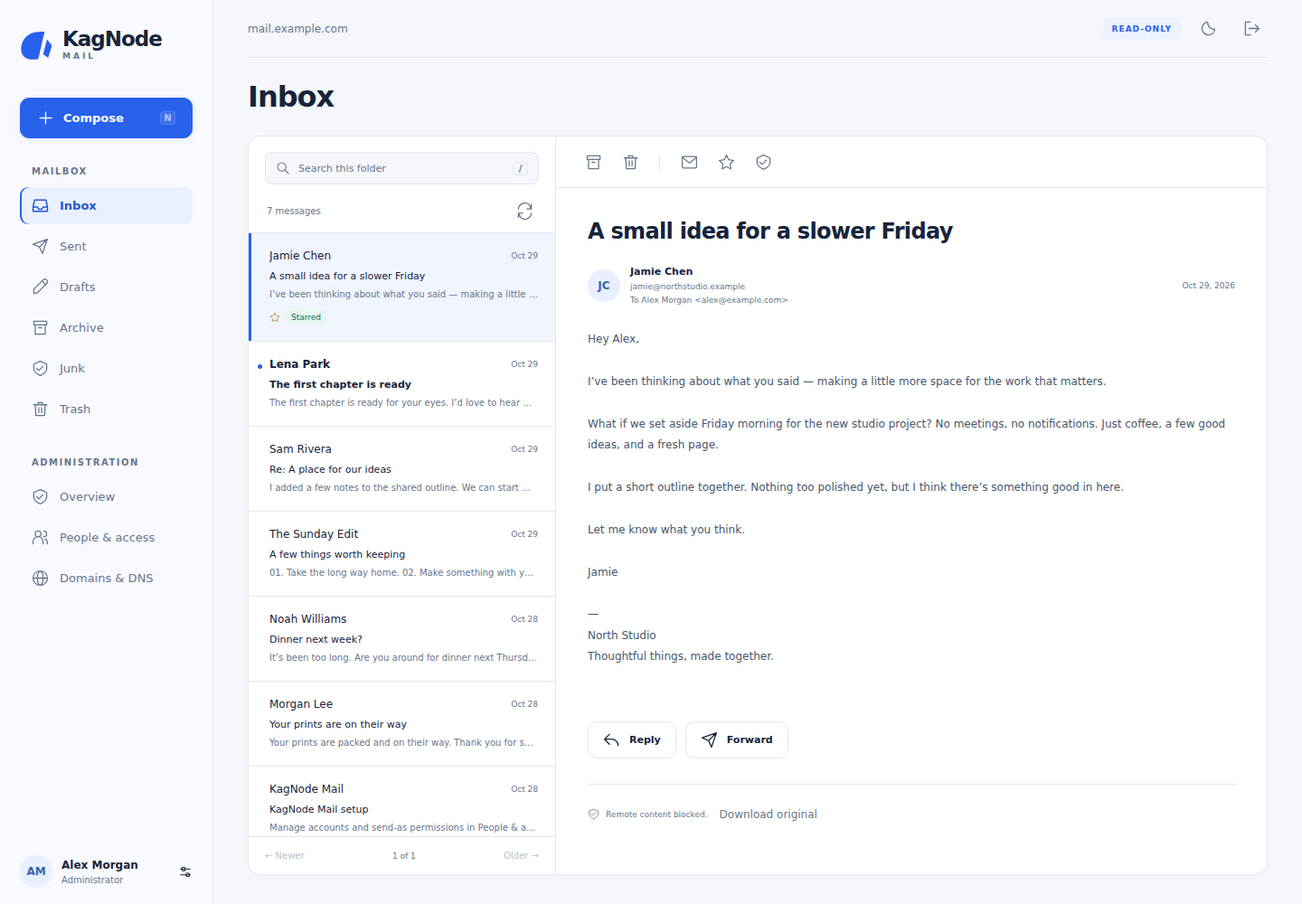
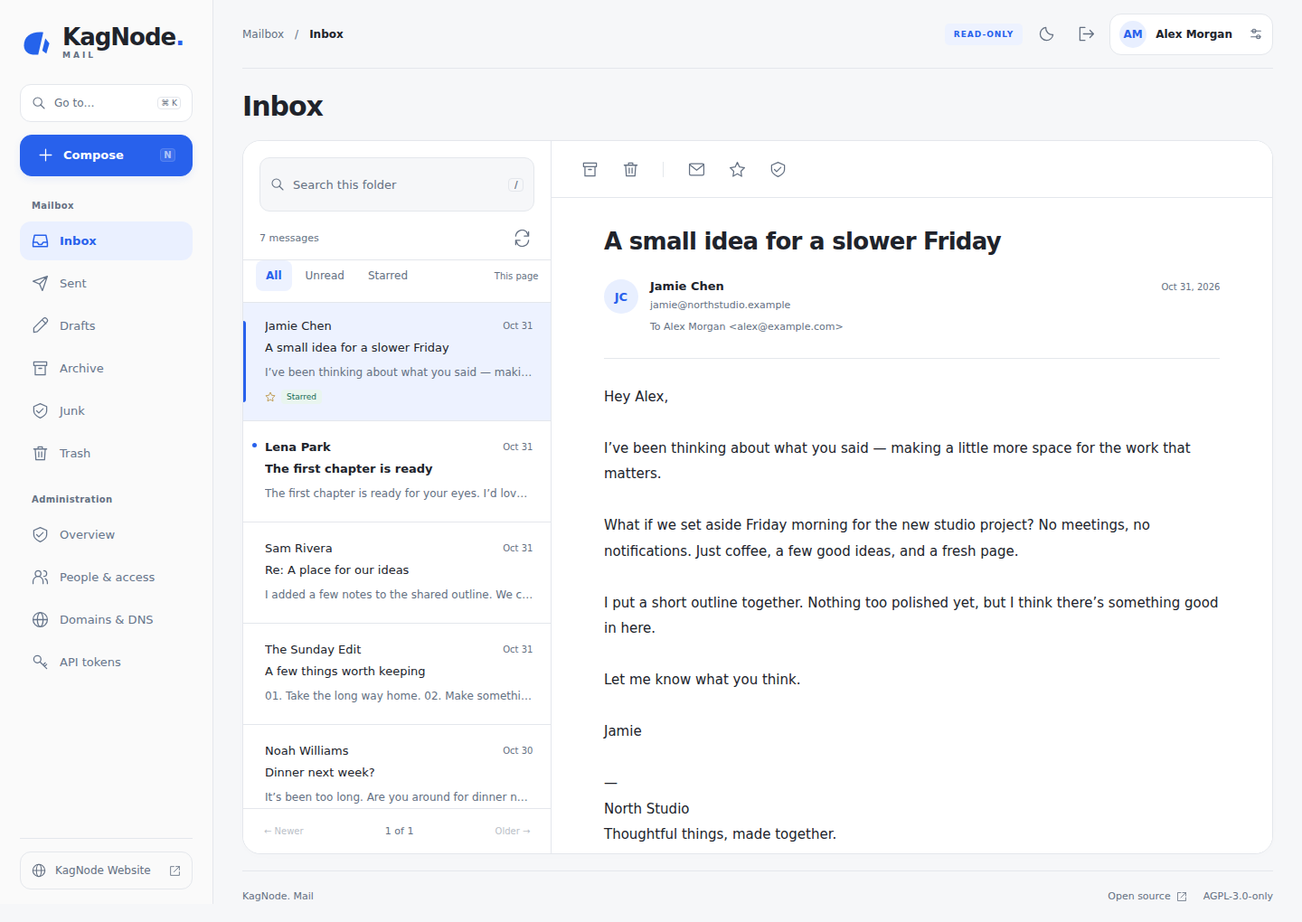
Fixed for 0.5.0

diff --git a/kagnode/templates/index.html b/kagnode/templates/index.html
@@ -4,8 +4,9 @@
 <meta charset="utf-8"><meta name="viewport" content="width=device-width,initial-scale=1"><meta name="theme-color" content="#f5f7fc">
 <title>KagNode Mail — Open source mail server</title>
 <meta name="description" content="KagNode Mail — open source mail server.">
-<link rel="icon" href="/static/favicon.ico?v=transparent-1" sizes="16x16 32x32 48x48"><link rel="icon" href="/static/favicon.png?v=transparent-1" type="image/png" sizes="32x32"><link rel="icon" href="/static/favicon.svg?v=transparent-1" type="image/svg+xml" sizes="any"><link rel="apple-touch-icon" href="/static/apple-touch-icon.png?v=transparent-1" sizes="180x180"><link rel="stylesheet" href="/static/app.css?v=mail-0.4.5">
-<script src="/static/app.js?v=mail-0.4.5" defer></script>
+<link rel="icon" href="/static/favicon.ico?v=transparent-1" sizes="16x16 32x32 48x48"><link rel="icon" href="/static/favicon.png?v=transparent-1" type="image/png" sizes="32x32"><link rel="icon" href="/static/favicon.svg?v=transparent-1" type="image/svg+xml" sizes="any"><link rel="apple-touch-icon" href="/static/apple-touch-icon.png?v=transparent-1" sizes="180x180"><link rel="stylesheet" href="/static/app.css?v=mail-0.5.0">
+<link rel="stylesheet" href="/static/workspace.css?v=mail-0.5.0">
+<script src="/static/app.js?v=mail-0.5.0" defer></script>
 </head>
 <body>
 <svg class="icon-defs" aria-hidden="true" xmlns="http://www.w3.org/2000/svg"><defs>
@@ -51,14 +52,14 @@
    <div id="admin-nav-wrap" hidden><span class="nav-label admin-label" id="admin-nav-label">Administration</span><nav id="admin-nav" aria-labelledby="admin-nav-label"></nav></div>
   </div>
   <div class="sidebar-bottom">
-   <button class="profile-button" id="profile-button" data-page="account" aria-label="Your account and settings"><span class="avatar" id="sidebar-avatar"></span><span class="profile-details"><strong id="sidebar-name"></strong><small id="sidebar-role"></small></span><svg class="icon" aria-hidden="true"><use href="#i-settings"/></svg></button>
+
    <a class="website-link" href="https://nebulacoder.com"><svg class="icon" aria-hidden="true"><use href="#i-globe"/></svg><span>KagNode Website</span><svg class="icon" aria-hidden="true"><use href="#i-external"/></svg></a>
   </div>
  </aside>
  <button id="sidebar-backdrop" class="mobile-backdrop" aria-label="Close navigation" hidden></button>
- <main class="main" id="main" tabindex="-1"><header class="topbar"><button class="icon-button mobile-menu" id="mobile-menu" aria-label="Toggle navigation"><svg class="icon"><use href="#i-menu"/></svg></button><a href="#inbox" class="mobile-brand" aria-label="KagNode Mail"><img src="/static/logo.svg" width="26" height="26" alt=""></a><span class="mail-location"><span id="location-group">Mailbox</span><span aria-hidden="true">/</span><strong id="location-page">Inbox</strong></span><span id="server-host" class="server-host"></span><div class="topbar-right"><button id="navigation-search-mobile" class="icon-button" aria-label="Find a folder or setting" aria-haspopup="dialog" aria-controls="navigation-dialog"><svg class="icon" aria-hidden="true"><use href="#i-search"/></svg></button><span id="preview-badge" class="pill" hidden>READ-ONLY</span><button id="theme-toggle" class="icon-button" aria-label="Toggle dark theme"><svg class="icon"><use href="#i-moon"/></svg></button><button id="logout-button" class="icon-button" aria-label="Sign out" title="Sign out"><svg class="icon"><use href="#i-logout"/></svg></button></div></header>
+ <main class="main" id="main" tabindex="-1"><header class="topbar"><button class="icon-button mobile-menu" id="mobile-menu" aria-label="Toggle navigation"><svg class="icon"><use href="#i-menu"/></svg></button><a href="#inbox" class="mobile-brand" aria-label="KagNode Mail"><img src="/static/logo.svg" width="26" height="26" alt=""></a><span class="mail-location"><span id="location-group">Mailbox</span><span aria-hidden="true">/</span><strong id="location-page">Inbox</strong></span><span id="server-host" class="server-host"></span><div class="topbar-right"><button id="navigation-search-mobile" class="icon-button" aria-label="Find a folder or setting" aria-haspopup="dialog" aria-controls="navigation-dialog"><svg class="icon" aria-hidden="true"><use href="#i-search"/></svg></button><span id="preview-badge" class="pill" hidden>READ-ONLY</span><button id="theme-toggle" class="icon-button" aria-label="Toggle dark theme"><svg class="icon"><use href="#i-moon"/></svg></button><button id="logout-button" class="icon-button" aria-label="Sign out" title="Sign out"><svg class="icon"><use href="#i-logout"/></svg></button><button class="profile-button" id="profile-button" data-page="account" aria-label="Your account and settings"><span class="avatar" id="sidebar-avatar"></span><span class="profile-details"><strong id="sidebar-name"></strong><small id="sidebar-role"></small></span><svg class="icon" aria-hidden="true"><use href="#i-settings"/></svg></button></div></header>
  <section class="page-heading"><h1 id="page-title">Inbox</h1></section>
- <section id="mail-view" class="mail-surface"><div class="mail-list-panel"><div class="list-toolbar"><label class="search-wrap"><svg class="icon"><use href="#i-search"/></svg><input id="mail-search" type="search" placeholder="Search this folder" aria-label="Search this folder"><kbd>/</kbd></label></div><div class="list-subhead"><strong id="list-count">All messages</strong><div class="list-actions"><button id="compose-mobile" type="button" class="button mobile-compose-action" aria-label="Compose a message"><svg class="icon" aria-hidden="true"><use href="#i-plus"/></svg>Compose</button><button id="refresh-mail" class="icon-button small" aria-label="Refresh messages"><svg class="icon"><use href="#i-refresh"/></svg></button></div></div><div id="message-list" class="message-list" aria-live="polite"></div><div class="pagination"><button id="prev-page" class="text-button">← Newer</button><span id="page-count">Page 1</span><button id="next-page" class="text-button">Older →</button></div></div><div id="message-reader" class="message-reader"></div></section>
+ <section id="mail-view" class="mail-surface"><div class="mail-list-panel"><div class="list-toolbar"><label class="search-wrap"><svg class="icon"><use href="#i-search"/></svg><input id="mail-search" type="search" placeholder="Search this folder" aria-label="Search this folder"><kbd>/</kbd></label></div><div class="list-subhead"><strong id="list-count">All messages</strong><div class="list-actions"><button id="compose-mobile" type="button" class="button mobile-compose-action" aria-label="Compose a message"><svg class="icon" aria-hidden="true"><use href="#i-plus"/></svg>Compose</button><button id="refresh-mail" class="icon-button small" aria-label="Refresh messages"><svg class="icon"><use href="#i-refresh"/></svg></button></div></div><div class="mail-filters" role="group" aria-label="Filter messages on this page"><button type="button" data-mail-filter="all" aria-pressed="true">All</button><button type="button" data-mail-filter="unread" aria-pressed="false">Unread</button><button type="button" data-mail-filter="starred" aria-pressed="false">Starred</button><span title="Filters apply to this page of messages">This page</span></div><div id="message-list" class="message-list" aria-live="polite"></div><div class="pagination"><button id="prev-page" class="text-button">← Newer</button><span id="page-count">Page 1</span><button id="next-page" class="text-button">Older →</button></div></div><div id="message-reader" class="message-reader"></div></section>
  <section id="admin-view" class="admin-view" hidden></section><section id="account-view" class="admin-view" hidden></section>
  <footer class="mail-footer"><span>KagNode. Mail</span><nav aria-label="Mail project links"><a href="https://github.com/every-lemon/kagnode-mail" target="_blank" rel="noreferrer">Open source <svg class="icon" aria-hidden="true"><use href="#i-external"/></svg></a><a href="https://github.com/every-lemon/kagnode-mail/blob/main/LICENSE" target="_blank" rel="noreferrer">AGPL-3.0-only</a></nav></footer>
  </main>

diff --git a/kagnode/static/workspace.css b/kagnode/static/workspace.css
@@ -1,0 +1,22 @@
+/* KagNode Mail 0.5: reading layout, message navigation and composition. */
+:root{--bg:#f6f7f9;--side:#fafafa;--ink:#20232b;--muted:#647082;--line:#e4e7ec;--radius:18px}
+[data-theme=dark]{--bg:#101113;--side:#121315;--paper:#181a1e;--ink:#f1f3f7;--muted:#a5acb8;--line:#2c2f35;--soft:#1d2b45}
+.main{padding:0 32px}.topbar{height:76px;gap:12px}.mail-location{font-size:12px;gap:12px}.topbar .server-host{display:none}.topbar-right{margin-left:auto;gap:8px}
+.topbar .profile-button{width:auto;max-width:240px;min-height:44px;padding:7px 10px;border-radius:13px;gap:10px;background:var(--paper)}
+.topbar .profile-button .avatar{width:30px;height:30px;font-size:12px;flex-shrink:0}.topbar .profile-details{text-align:left}.topbar .profile-details strong{font-size:12px}.topbar .profile-details small{display:none}.topbar .profile-button>.icon{width:16px;margin-left:8px;color:var(--muted)}
+.sidebar .brand-wordmark strong{font-size:26px}.nav-item{font-size:13px;min-height:43px}.nav-label{font-size:10px}.nav-item.active{box-shadow:none}.compose-main{min-height:46px;font-size:13px}.navigation-search{font-size:12px}.website-link{font-size:12px}
+.page-heading{padding:24px 0 20px}.page-heading h1{font-size:30px;letter-spacing:-1px}.mail-surface{height:calc(100dvh - 210px);min-height:480px;border-radius:20px;box-shadow:0 2px 12px #00000003;margin-bottom:18px}
+.mail-list-panel{width:clamp(300px,30%,390px);background:var(--paper)}.list-toolbar{padding:18px 18px 10px}.search-wrap{border-radius:11px}.search-wrap input{font-size:13px;min-height:40px}.list-subhead{padding:5px 18px 10px;font-size:11px}
+.mail-filters{display:flex;align-items:center;gap:4px;padding:0 14px 12px;border-bottom:1px solid var(--line)}.mail-filters button{border:0;border-radius:8px;background:transparent;color:var(--muted);font-size:12px;min-height:34px;padding:7px 11px}.mail-filters button[aria-pressed=true]{background:var(--soft);color:var(--accent);font-weight:600}.mail-filters>span{margin-left:auto;font-size:10px;color:var(--muted)}
+.message-row{padding:18px 20px 18px 24px;min-height:112px}.message-row.selected{background:var(--soft)}.message-row.selected:before{inset:20px auto 20px 0;width:3px;border-radius:0 4px 4px 0}.row-top{margin-bottom:7px}.sender-name{font-size:13px}.row-date{font-size:10px}.row-subject{font-size:13px;line-height:1.6;white-space:normal;display:-webkit-box;-webkit-line-clamp:2;-webkit-box-orient:vertical;overflow:hidden}.row-preview{font-size:12px;line-height:1.7;margin-top:5px}.row-bottom{margin-top:9px}.unread-dot{top:24px;left:10px;width:5px;height:5px}.pagination{padding:13px 17px;font-size:11px}
+.message-reader{min-width:0;background:var(--paper)}.reader-toolbar{min-height:63px;padding:10px 24px;gap:9px;background:var(--paper);position:sticky;top:0;z-index:1;border-bottom:1px solid var(--line)}.reader-toolbar .icon-button{width:36px;height:36px;border-radius:9px}.reader-toolbar .icon-button:hover{background:var(--soft)}
+.reader-content{padding:30px clamp(22px,4vw,58px);max-width:1000px;margin:auto}.reader-content h2{font-size:26px;line-height:1.4;font-weight:650;letter-spacing:-.7px;margin-bottom:24px;overflow-wrap:anywhere}.sender-block{align-items:flex-start;gap:13px;flex-wrap:wrap;padding-bottom:24px;border-bottom:1px solid var(--line);margin-bottom:28px}.sender-block .avatar{width:38px;height:38px;font-size:13px}.sender-details strong{font-size:13px}.sender-details small{font-size:11px;line-height:1.7;overflow-wrap:anywhere}.sender-date{font-size:10px;margin-left:auto;line-height:1.8}.message-body{font-family:inherit;font-size:15px;line-height:1.9;white-space:pre-wrap;overflow-wrap:anywhere;max-width:72ch;color:var(--ink)}
+.reply-bar{margin-top:30px;gap:10px}.reply-bar .button{font-size:12px;padding:12px 18px;border-radius:11px}.reader-bottom{font-size:11px;line-height:1.6;flex-wrap:wrap;align-items:center}.reader-bottom a{margin-left:auto}.attachment{font-size:12px;border-radius:11px;max-width:100%}.message-reader>.empty-state{min-height:100%;max-width:400px;margin:auto;padding:32px;display:flex;flex-direction:column;justify-content:center;text-align:center}
+.mail-skeleton{padding:16px 20px}.mail-skeleton>div{padding:22px 0;border-bottom:1px solid var(--line)}.mail-skeleton span{display:block;height:10px;width:65%;border-radius:6px;background:var(--line);margin-bottom:12px;animation:mail-breathe 1.4s ease-in-out infinite alternate}.mail-skeleton span:nth-child(2){width:90%}.mail-skeleton span:nth-child(3){width:75%;opacity:.6}.message-reader>.mail-skeleton{max-width:680px;padding:32px}
+.compose-dialog{width:min(760px,calc(100vw - 36px));border-radius:22px}.compose-dialog .dialog-header{padding:24px 28px}.compose-dialog h2{font-size:22px;font-weight:650}.compose-fields{padding-inline:28px}.inline-field{font-size:12px;gap:16px}.inline-field input,.inline-field select{font-size:14px;min-height:45px}.compose-fields textarea{font-size:15px;line-height:1.8;min-height:240px;padding-top:20px}.compose-footer{padding:20px 28px}.compose-footer .button{font-size:13px;min-height:44px}.file-label{font-size:12px}.panel-note,.panel-subtitle{font-size:13px;line-height:1.7}
+.mail-footer{font-size:11px;padding-bottom:12px}.admin-view{max-width:1200px}.admin-view .panel{border-radius:18px}.admin-view td{line-height:1.6}
+@keyframes mail-breathe{from{opacity:.4}to{opacity:1}}
+@media(max-width:1200px){.main{padding-inline:24px}.reader-content{padding-inline:24px}.mail-list-panel{width:300px}.sender-date{flex-basis:100%;margin-left:51px}.topbar .profile-details{max-width:110px}.topbar .profile-details strong{overflow:hidden;text-overflow:ellipsis}}
+@media(max-width:900px){.main{padding-inline:20px}.topbar{height:68px;gap:8px}.mail-location{font-size:12px}.topbar-right{gap:2px}.topbar .profile-button{min-height:38px;padding:4px;margin-left:6px;max-width:40px;border-radius:50%}.topbar .profile-details,.topbar .profile-button>.icon{display:none}.page-heading{padding-block:20px}.mail-surface{height:calc(100dvh - 205px)}.mail-list-panel{width:300px}.sidebar-bottom{padding-top:16px}}
+@media(max-width:700px){.main{padding-inline:14px}.page-heading h1{font-size:28px}.mail-surface{height:calc(100dvh - 190px);min-height:420px;border-radius:16px}.mail-list-panel{width:100%;border-right:0}.message-reader{display:none}.mail-surface.reading .mail-list-panel{display:none}.mail-surface.reading .message-reader{display:block;width:100%}.reader-back{display:inline-flex}.reader-content{padding:22px 20px}.reader-content h2{font-size:23px}.message-body{font-size:14px}.reader-toolbar{padding-inline:12px;gap:7px}.message-row{min-height:110px}.row-subject{font-size:14px}.sender-name{font-size:13px}.reader-bottom a{margin-left:0;flex-basis:100%}.compose-dialog{width:calc(100vw - 20px);border-radius:18px;max-height:calc(100dvh - 20px)}.compose-dialog .dialog-header,.compose-footer{padding:18px}.compose-fields{padding-inline:18px}.compose-fields textarea{min-height:200px}.inline-field input,.inline-field select{font-size:16px}.mail-location>span{display:none}.mail-footer{font-size:10px}.topbar .icon-button{width:34px;height:38px}}
+@media(prefers-reduced-motion:reduce){.mail-skeleton span{animation:none}}

diff --git a/kagnode/static/app.js b/kagnode/static/app.js
@@ -13,6 +13,7 @@ const state = {
   tokens: null,
   demo: false,
   login_allowed: false,
+  listFilter: 'all',
   generation: 0
 };
 const folders = [
@@ -304,12 +305,13 @@ async function route() {
   document.title = (folders.find(f => f[0] === page)?.[1] || adminPages.find(f => f[0] === page)?.[1] || 'Account') + ' · KagNode Mail';
   if (folders.some(f => f[0] === page)) {
     state.folder = page;
+    state.listFilter = 'all';
     state.page = 1;
     state.current = null;
     $('#mail-search').value = '';
     $('#mail-view').classList.remove('reading');
     heading(folders.find(f => f[0] === page)[1]);
-    $('#message-reader').replaceChildren(blank('Select a message'));
+    $('#message-reader').replaceChildren(blank('Your messages, in focus', 'Select a message to read it here. Reply, save attachments, or keep your inbox organized.', 'inbox'));
     await loadMessages();
   } else if (page === 'account') {
     renderAccount();
@@ -342,7 +344,7 @@ async function route() {
 }
 async function loadMessages() {
   const gen = ++state.generation;
-  $('#message-list').replaceChildren(blank('Loading…'));
+  $('#message-list').replaceChildren(mailSkeleton());
   try {
     const r = await api('/messages?' + new URLSearchParams({
       folder: state.folder,
@@ -371,9 +373,20 @@ async function loadMessages() {
   }
 }
 
+function mailSkeleton() {
+  const box=el('div',{class:'mail-skeleton',role:'status','aria-label':'Loading messages'});
+  for(let i=0;i<5;i++)box.append(el('div',{},el('span'),el('span'),el('span')));
+  return box;
+}
+for(const control of document.querySelectorAll('[data-mail-filter]'))control.addEventListener('click',()=>{
+  state.listFilter=control.dataset.mailFilter;renderList();
+});
 function renderList() {
-  const nodes = state.messages.map(m => {
+  for(const control of document.querySelectorAll('[data-mail-filter]'))control.setAttribute('aria-pressed',String(control.dataset.mailFilter===state.listFilter));
+  const visible=state.messages.filter(m=>state.listFilter==='all'||!!m[state.listFilter]);
+  const nodes = visible.map(m => {
     const n = el('button', {
+      'aria-pressed': String(state.current?.uid === m.uid),
       class: 'message-row' + (m.unread ? ' unread' : '') + (state.current?.uid === m.uid ? ' selected' : ''),
       onclick: () => openMessage(m.uid)
     }, m.unread ? el('span', {
@@ -396,7 +409,7 @@ function renderList() {
     }, 'Starred')));
     return n;
   });
-  $('#message-list').replaceChildren(...(nodes.length ? nodes : [blank('No messages')]));
+  $('#message-list').replaceChildren(...(nodes.length ? nodes : [blank(state.messages.length?'No '+state.listFilter+' messages on this page':'No messages',state.messages.length?'Choose All or move to another page.':'New messages will appear here.','inbox')]));
 }
 async function openMessage(uid) {
   const folder = state.folder;
@@ -405,7 +418,7 @@ async function openMessage(uid) {
   };
   renderList();
   $('#mail-view').classList.add('reading');
-  $('#message-reader').replaceChildren(blank('Loading…'));
+  $('#message-reader').replaceChildren(mailSkeleton());
   try {
     const m = await api(`/messages/${uid}?folder=${encodeURIComponent(folder)}`);
     if (state.folder !== folder || state.current?.uid !== uid) return;
@@ -415,7 +428,10 @@ async function openMessage(uid) {
     renderList();
     renderReader(m);
   } catch (e) {
-    $('#message-reader').replaceChildren(blank('Could not open this message.', e.message));
+    if (state.folder !== folder || state.current?.uid !== uid) return;
+    const notice=blank('Could not open this message.', e.message);
+    notice.append(button('Try again',()=>openMessage(uid),'button','refresh'));
+    $('#message-reader').replaceChildren(notice);
   }
 }
 
@@ -495,7 +511,7 @@ async function mailAction(action) {
       if (m && action.includes('star')) renderReader(state.current);
     } else {
       state.current = null;
-      $('#message-reader').replaceChildren(blank('Select a message'));
+      $('#message-reader').replaceChildren(blank('Your messages, in focus', 'Select a message to read it here. Reply, save attachments, or keep your inbox organized.', 'inbox'));
       $('#mail-view').classList.remove('reading');
     }
   } catch (e) {

diff --git a/tests/test_mail.py b/tests/test_mail.py
@@ -520,3 +520,27 @@ def test_saved_draft_reports_success_if_old_copy_removal_disconnects(monkeypatch
     assert result["uid"] == "13"
     assert result["uidvalidity"] == "555"
     assert result["warning"].startswith("Draft saved,")
+
+
+def test_html_alternative_preserves_text_bcc_and_attachments():
+    from werkzeug.datastructures import FileStorage
+    import io
+    message, sender, targets = build_message(
+        {"to": "friend@example.org", "bcc": "hidden@example.org", "subject": "Update", "body": "Open your account", "html": '<p>Open <a href="https://example.org/account">your account</a></p>'},
+        USER, [USER["email"]], [FileStorage(stream=io.BytesIO(b"notes"), filename="notes.txt")],
+    )
+    assert message.get_content_type() == "multipart/mixed"
+    alternatives = message.get_payload(0)
+    assert alternatives.get_content_type() == "multipart/alternative"
+    assert alternatives.get_payload(0).get_content_type() == "text/plain"
+    assert alternatives.get_payload(1).get_content_type() == "text/html"
+    assert "Open your account" in message.get_body(preferencelist=("plain",)).get_content()
+    assert '<a href="https://example.org/account">' in message.get_body(preferencelist=("html",)).get_content()
+    assert "hidden@example.org" in targets
+    assert list(message.iter_attachments())[0].get_filename() == "notes.txt"
+
+
+@pytest.mark.parametrize("extra", [{"body": ""}, {"html": {}}, {"html": "é" * 524289}])
+def test_html_requires_text_and_bounded_string(extra):
+    with pytest.raises(ValueError):
+        build_message({"to": "friend@example.org", "body": "Text", "html": "<p>Text</p>", **extra}, USER, [USER["email"]])

diff --git a/tests/browser_check.py b/tests/browser_check.py
@@ -148,6 +148,8 @@ with sync_playwright() as p:
     page.locator(".dns-record").first.wait_for()
     page.screenshot(path=str(OUT / "dns.png"), full_page=True)
     page.locator('#form-dialog button[aria-label="Close dialog"]').click()
+    if page.locator("#sidebar-backdrop").is_visible():
+        page.locator("#sidebar-close").click()
     page.locator("#profile-button").click()
     page.get_by_role("heading", name="Mail clients", exact=True).wait_for()
     page.screenshot(path=str(OUT / "account.png"), full_page=True)
@@ -263,7 +265,7 @@ with sync_playwright() as p:
     page.locator('#toast').wait_for(state='hidden')
     page.locator('#theme-toggle').click()
     page.screenshot(path=str(OUT / "tokens-dark.png"), full_page=True)
-    assert page.locator('.token-card').first.evaluate("e => getComputedStyle(e).backgroundColor") == "rgb(0, 0, 0)"
+    assert page.locator('.token-card').first.evaluate("e => getComputedStyle(e).backgroundColor") == "rgb(24, 26, 30)"
     page.locator('#theme-toggle').click()
     page.set_viewport_size({"width": 390, "height": 844})
     page.screenshot(path=str(OUT / "tokens-mobile.png"), full_page=True)
@@ -337,6 +339,7 @@ with sync_playwright() as p:
         assert page.locator('.sidebar .website-link').evaluate(
             "el => {const r=el.getBoundingClientRect(); return r.top >= 0 && r.bottom <= innerHeight;}"
         ), f"Sidebar bottom outside viewport at {width}px"
+        page.locator("#sidebar-close").click()
         page.locator("#profile-button").click()
         expect(page.locator("#location-page")).to_have_text("Account")
         expect(page.locator("#location-page")).to_be_visible()

diff --git a/kagnode/mail.py b/kagnode/mail.py
@@ -105,7 +105,7 @@ def recipients(value):
 def build_message(data, user, allowed, attachments=(), draft=False):
     if any(
         not isinstance(data.get(k, ""), str)
-        for k in ("from", "to", "cc", "bcc", "subject", "body")
+        for k in ("from", "to", "cc", "bcc", "subject", "body", "html")
     ):
         raise ValueError("Message fields must be text.")
     try:
@@ -130,6 +130,11 @@ def build_message(data, user, allowed, attachments=(), draft=False):
     body = data.get("body", "")
     if len(body.encode()) > 1024 * 1024:
         raise ValueError("Message text is too large.")
+    html = data.get("html", "")
+    if len(html.encode()) > 1024 * 1024:
+        raise ValueError("Message HTML is too large.")
+    if html and not body.strip():
+        raise ValueError("Include a plain-text body with HTML messages.")
     msg = EmailMessage(policy=policy.SMTP)
     msg["From"] = sender
     msg["To"] = ", ".join(to) if to else "undisclosed-recipients:;"
@@ -141,6 +146,8 @@ def build_message(data, user, allowed, attachments=(), draft=False):
     msg["Date"] = formatdate(localtime=False)
     msg["Message-ID"] = make_msgid(domain=sender.split("@")[1])
     msg.set_content(body)
+    if html:
+        msg.add_alternative(html, subtype="html")
     msg._kagnode_bcc = bcc
     total = 0
     for index, item in enumerate(attachments):

diff --git a/tests/test_api.py b/tests/test_api.py
@@ -477,3 +477,19 @@ def test_get_accepts_json_content_type_without_body(client, token, mail):
         "/api/v1/messages/12?uidvalidity=42",
     ):
         assert client.get(path, headers=headers).status_code == 200
+
+
+def test_token_html_submission_and_draft_keep_plain_alternative(client, token, mail):
+    payload = {"to": "friend@example.org", "subject": "Account", "body": "Account update", "html": "<h1>Account update</h1>"}
+    result = client.post("/api/v1/send", headers=bearer(token), json=payload)
+    assert result.status_code == 202
+    message = mail.send.call_args.args[2]
+    assert message.get_body(preferencelist=("html",)).get_content().strip() == payload["html"]
+    assert message.get_body(preferencelist=("plain",)).get_content().strip() == payload["body"]
+    result = client.post("/api/v1/drafts", headers=bearer(token), json=payload)
+    assert result.status_code == 201
+    message = mail.draft.call_args.args[2]
+    assert message.get_body(preferencelist=("html",)).get_content().strip() == payload["html"]
+    for extra in [{"body": ""}, {"html": []}, {"html": "a" * 1048577}]:
+        assert client.post("/api/v1/send", headers=bearer(token), json={**payload, **extra}).status_code == 400
+    assert mail.send.call_count == 1

diff --git a/README.md b/README.md
@@ -10,7 +10,7 @@ Open source mail server for Ubuntu Server 24.04, with webmail and administration
 
 KagNode Mail installs Postfix, Dovecot, OpenDKIM, nginx, and a small Python application. SQLite keeps accounts and permissions; Maildir stores messages. No Docker, Node.js runtime, Redis, external fonts, analytics, or database server is required on your mail host.
 
-This is the **0.4.5 release**. This release uses project-scoped paths; existing installations require the separately reviewed migration in [PATHS.md](PATHS.md). Review [validation and limitations](docs/validation.md) before putting it on the public internet. Public mail delivery also depends on your IP reputation, provider rules, DNS, and open port 25.
+This is the **0.5.0 release**. This release uses project-scoped paths; existing installations require the separately reviewed migration in [PATHS.md](PATHS.md). Review [validation and limitations](docs/validation.md) before putting it on the public internet. Public mail delivery also depends on your IP reputation, provider rules, DNS, and open port 25.
 
 ## What works
 
@@ -146,3 +146,9 @@ Compose validates external recipients separately from hosted mailbox names, acce
 ## KagNode 0.4.5
 
 Phone and tablet inboxes have a Compose button beside Refresh. Opening the composer closes the navigation drawer so returning to mail leaves the inbox visible. Existing sidebar and keyboard shortcuts use the same composer.
+
+## KagNode 0.5.0
+
+- A clearer reading workspace, top-right account settings, responsive composer and message skeletons. Unread and starred filters apply to the current page and retain folder search.
+- The server Token API accepts optional HTML with a required plain-text alternative. Existing sender permissions, per-recipient results and uncertain-send handling remain unchanged. Webmail continues to display safe text and block remote content from received messages.
+- Updating an existing 0.4.5 installation needs matching application files and a web-service restart; this release adds no database or native mail configuration migration. Retain the existing environment, API tokens, mailboxes and TLS certificate synchronization.

diff --git a/docs/validation.md b/docs/validation.md
@@ -71,3 +71,11 @@ The tests do not prove public delivery, inbox placement, resistance to every att
 Plain-text composition and reading (HTML-only mail is converted to text); no rich-text editor, message-thread grouping, contacts/calendar, rules/Sieve editor, or full-text index. Mail search currently accepts ASCII text. No SMTPUTF8, POP3, SMTP 465, MFA, or outbound-relay setup wizard. Administrative IP changes update instructions rather than provider DNS or network interfaces. Existing IMAP sessions require `doveadm kick` for immediate revocation. Web sends can have uncertain outcomes after an SMTP timeout; retry only after checking.
 
 The initial installer manages a dedicated host and refuses preexisting mail data/configuration. Cross-version database migrations, automated uninstall, and unattended app upgrades are outside this release. See the operations guide for deliberate update and recovery procedures.
+
+## Release checks — 0.5.0, 2026-10-31
+
+- Mail adapter and Token API: **90 passed**, including HTML/text MIME alternatives, attachment composition, UTF-8 limits, sender authorization and uncertain outcomes.
+- Application, origin, proxy, transport and installer regression: **104 passed**. Disposable databases ran on tmpfs after local disk journal stalls caused slow test setup.
+- Browser acceptance passed reading, composing, sender selection, error recovery, admin password confirmation, API token replacement/revocation, keyboard navigation and mobile menus.
+- **44** extra layout checks passed: mailbox, reader, composer and account at 320, 390, 768, 1024 and 1440 pixels in both themes, plus four widths for the account email design.
+- These checks use fictional accounts and mock delivery. No messages were sent to real recipients. Native SMTP/IMAP settings and certificate synchronization are outside this source-only update and are retained.

diff --git a/docs/api.md b/docs/api.md
@@ -49,7 +49,7 @@ curl --fail-with-body "$MAIL_URL/api/v1/send" \
   --data '{"from":"notifications@example.com","to":"recipient@example.net","subject":"Status","body":"The job finished."}'
 ```
 
-Fields are strings: `from`, `to`, `cc`, `bcc`, `subject`, and `body`. Recipient fields accept comma-separated addresses. `from` defaults to the mailbox address, which must be explicitly selected on the token when used. At least one recipient is required; total recipients are capped at 50. Bodies are plain text, at most 1 MiB; subjects at most 300 characters on one line.
+Fields are strings: `from`, `to`, `cc`, `bcc`, `subject`, `body`, and optional `html`. Recipient fields accept comma-separated addresses. `from` defaults to the mailbox address, which must be explicitly selected on the token when used. At least one recipient is required; total recipients are capped at 50. `body` is the plain-text version, at most 1 MiB encoded UTF-8. Optional `html` adds an HTML alternative (also at most 1 MiB encoded UTF-8) and requires a nonempty `body`. Both versions are delivered in a multipart/alternative message; clients choose which to display. HTML does not change sender permissions or submission outcomes. Subjects contain at most 300 characters on one line.
 
 For attachments, use multipart form data with the same fields and repeat the `attachments` field:
 
